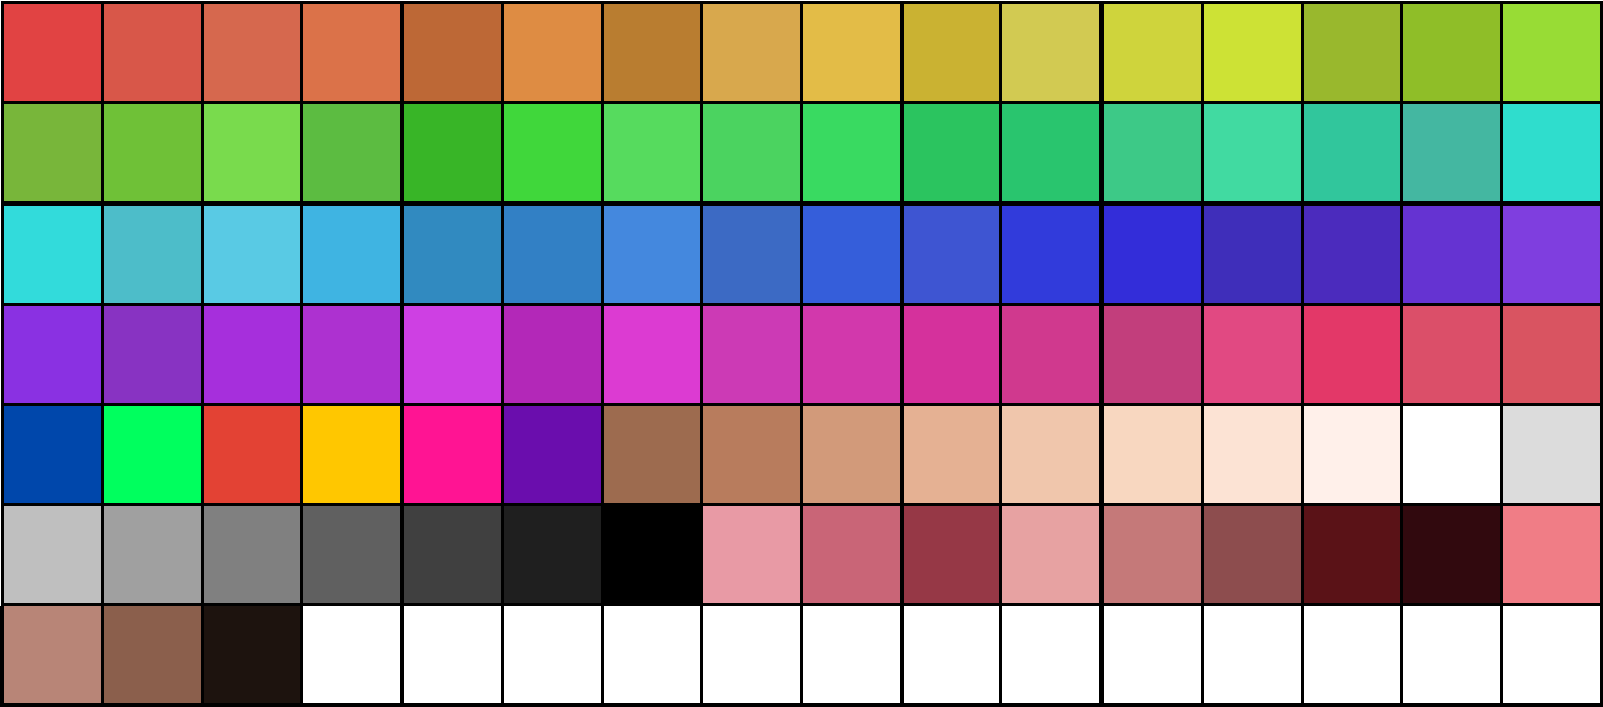
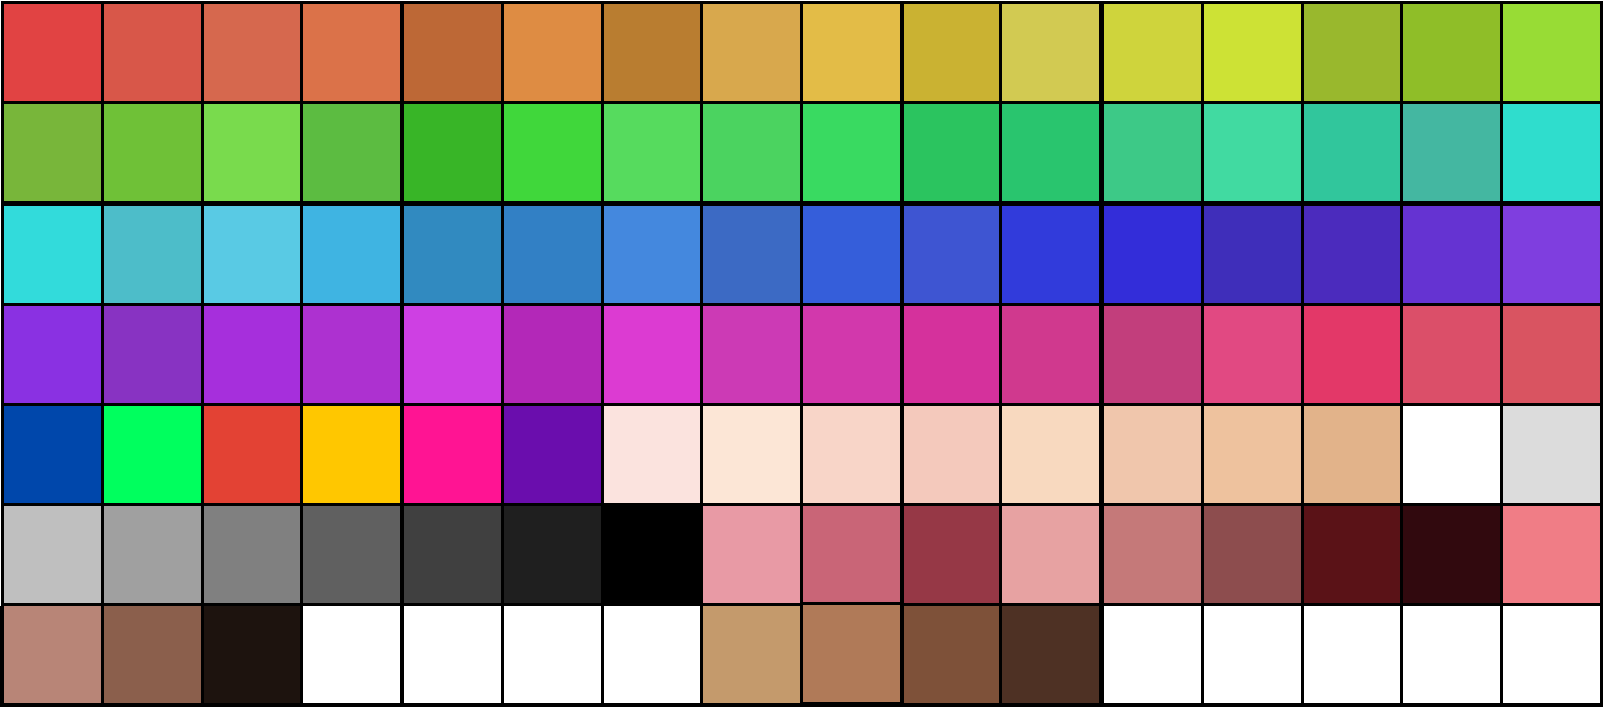
Character materials as built: palette v2, zones 1-17, Toon BSDF mapping
- art-direction: palette is 112 slots / 103 used with real index ranges
  (flesh 71-78 light anime tones, 104-107 darker; 79-87 greys; 88-96 mouth
  interior; 97-99 areola; 100-103 earmarked for cheek blush); Blush Strength
  scales zone 1 only; soft zones; face zones 1-17 (EyeBack, HairSkullCap
  appended, EyeShadow 15 -> 17); skull cap is a face zone, not a hair slot;
  body zones numbered, Explicit is a soft zone set on the Spicy MI only
- palette.png refreshed from the v2 export
- TB-materials: Toon BSDF backend as built (emission via EmissiveColor, no
  Unlit+Add), Toon Profile per master, channel -> pin table
- "98-entry" -> "112-slot" in README, CB-weather-environment, TB-ui-style-guide
- CB-delivery-girl: Nessa's full name, Nessa Virelli
- M2/M3: ARKit 52 authoring on FemaleBase moved to M3 (2026-11-19)

Changed region(s): [[0.4367, 0.8402, 0.6862, 0.9958], [0.3743, 0.5601, 0.6238, 0.7157], [0.7486, 0.5601, 0.8734, 0.7157]]

diff --git a/gdd/art-direction.md b/gdd/art-direction.md
@@ -65,18 +65,22 @@ The passes above define the **look**. As of **UE 5.8**, the **implementation** m
 
 ## Colour Palette
 
-All colour in the game is drawn from a **98-entry palette** stored as a 16×7 grid (with unused slots in the final row). No material uses colour values outside the palette.
+All colour in the game is drawn from the palette, stored as a 16×7 grid of **112 slots, 103 of them in use**. Indices run 1–112, left to right and top to bottom. No material uses colour values outside the palette. The master file is `VisualArt/photoshop/Pallette.psd` in Perforce, one named shape layer per entry. The PNG used by Blender and UE is exported from it.
 
 ![MGA Colour Palette](palette.png)
 
-| Category | Count | Purpose |
-|----------|-------|---------|
-| Base chromatic | 64 | Full hue spectrum — clothing, environment, props, effects, secondary colours (rows 1–4) |
-| Signature colours | 6 | Reserved identity colours for key characters (see story spoiler below) |
-| Flesh tones | 8 | Skin across the full character roster |
-| Greyscale | 8 | Shadows, metals, neutral elements, UI |
-| Blush tones | 12 | Anime blush, flush, lips, mouth interior, and emotional colour states |
-| **Total** | **98** | |
+| Indices | Category | Count | Purpose |
+|---------|----------|-------|---------|
+| 1–64 | Base chromatic | 64 | Full hue spectrum: clothing, environment, props, effects, secondary colours (rows 1–4) |
+| 65–70 | Signature colours | 6 | Reserved identity colours for key characters (see story spoiler below) |
+| 71–78 | Flesh tones: light | 8 | The light range where anime skin sits, with pink, peach and golden undertones. Most of the cast is coloured from here |
+| 79–87 | Greyscale | 9 | White to black: shadows, metals, neutral elements, UI |
+| 88–96 | Mouth interior | 9 | Tongue, gums, mouth cavity and inner lip, three depths each |
+| 97–99 | Areola | 3 | Light, mid and deep |
+| 104–107 | Flesh tones: darker | 4 | Olive tan, warm bronze, deep and deepest brown |
+| 100–103, 108–112 | Free | 9 | Unassigned. 100–103 are earmarked for a dedicated cheek-blush set |
+
+*Palette v2, 2026-11-20 (Peter).* The original flesh row was a single peach hue (about 22°) running from medium brown to three near-whites, with no pink undertone. The two entries meant to be pink had come out peach. The rebalance kept the light anime range in 71–78 and moved the darker tones to 104–107, rather than spread a few light entries thinly across the full range. Index lookups are clamped to 1–112 in `MF_SelectColorFromPalette`.
 
 <details>
 <summary>⚠ Story Spoiler — Signature Colours</summary>
@@ -89,7 +93,7 @@ The 6 signature colours are reserved for the five magical girls and Tierney. Onl
 
 **Palette discipline:** The restricted palette enforces visual consistency across the game. Characters, environments, and UI all speak the same colour language. New assets that require a new colour require a palette discussion — the palette is not expanded casually.
 
-**Blush tones** are designed to blend with flesh tones through the material B channel (see below), creating the anime blush effect as a material parameter rather than a separate render pass.
+**Blush** blends with flesh tones through the material B channel (see below), creating the anime blush effect as a material parameter rather than a separate render pass. There is no dedicated cheek-blush set yet. Until 100–103 are filled, blush uses the light mouth-interior entries (88 *Tongue – light*, 96 *Inner-lip pink*).
 
 **Signature colours** correspond to the key characters and factions whose colours appear repeatedly across costume, UI, and environmental storytelling.
 
@@ -105,10 +109,14 @@ Each material instance exposes two arrays of palette index slots:
 
 | Parameter | Count | Maps to |
 |-----------|-------|---------|
-| Color 1 indexes | 30 | Palette entries (1–98) |
-| Color 2 indexes | 30 | Palette entries (1–98) |
+| Color 1 indexes | up to 30 | Palette entries (1–112) |
+| Color 2 indexes | up to 30 | Palette entries (1–112) |
 
-The 30 Color 1 slots and 30 Color 2 slots define the colour vocabulary available to that material instance. Which slot applies to any given pixel is determined by the primary texture.
+The 30 Color 1 slots and 30 Color 2 slots define the colour vocabulary available to that material instance. Which slot applies to any given pixel is determined by the primary texture. `M_Master_Character` currently has **17** cases wired (`Color 1 Index N` / `Color 2 Index N`, the face's zone count). A new zone needs a new Switch case and its two parameters, as well as the texture change.
+
+**Blush Strength** scales the B mix on **zone 1 (Base) only**. Every other zone gets its full authored B, so turning the skin blush down does not also fade nail free edges or soft-zone feathering. *(2026-11-20.)*
+
+**Soft zones.** A zone is normally hard: a texel belongs to it when the layer's alpha is ≥ 0.5, so a feathered edge is cut off. A *soft* zone instead takes every texel the layer touches (alpha ≥ 0.02) and writes the layer's alpha into B. The feathered edge then blends Colour 1 → Colour 2 inside the zone. Set the zone's Colour 1 to the surrounding colour (skin) so that the zone boundary itself is invisible. Used for the Spicy Explicit zone, where the nipple feathering was being lost. *(2026-11-20, Peter.)*
 
 ### Primary Texture — RGBA
 
@@ -117,7 +125,9 @@ The 30 Color 1 slots and 30 Color 2 slots define the colour vocabulary available
 | **R** | Selects which Color 1 slot (1–N) applies to this pixel region |
 | **G** | Selects which Color 2 slot (1–N) applies to this pixel region |
 | **B** | Mix ratio — lerp between the selected Color 1 and Color 2 |
-| **A** | Alpha |
+| **A** | Alpha — **on `M_Master_Character`: signed soft shade** (see below) |
+
+**Soft shade on character skin (Primary.A).** *Decided by Peter 2026-11-20.* Painted shadows and highlights are soft (feathered), and R/G zones cannot carry softness, so they ride Primary.A on the opaque character master: **0.5 = neutral**, values below lerp toward the instance's shadow colour by `(0.5 − A) × 2`, values above toward its highlight colour by `(A − 0.5) × 2`. It is kept apart from B so blush and shadow can overlap (they do, under the eyes). An instance switch ignores A entirely, so the painted shading can be turned off and the cel shader's own lighting decide where shadows fall.
 
 The R and G channels divide the mesh surface into up to N independently addressable colour zones each, where **N is the master's `MaxIndex`** parameter (default 30, set per-master to match the texture's authored zone count). Selector math is `Round(channel × MaxIndex)` clamped to `[1, MaxIndex]`, so R and G must be authored in `1/N` steps — e.g. R ∈ {1/2, 2/2} for a 2-zone master, R ∈ {1/30, …, 30/30} for a 30-zone master. The B channel blends between the two selected palette entries, allowing two-tone materials: a fabric with warp and weft colours, skin with a blush layer, hair with a highlight band. Changing the look of any zone is a material instance parameter edit, not a texture repaint.
 
@@ -135,6 +145,8 @@ A second texture carries surface property data in packed channels (acronym from 
 | **A** | **E**mission boost |
 
 This texture is authored once per mesh and does not change with colour variations. Subsurface scattering on the R channel is the primary driver of skin warmth and the soft look of flesh in lit areas.
+
+**On the cel masters, R and G have no direct input.** The Substrate Toon BSDF has no subsurface or AO pin. Skin warmth comes instead from the warm diffuse ramp in the `TP_Character` Toon Profile and the instance's Shadow Color. AO goes to the material output's Ambient Occlusion pin if one is wired; the FemaleBase AO plane is flat 1.0 until a bake exists. Roughness and Emission (B, A) feed the BSDF directly. See [TB-materials](../technical-briefs/TB-materials.md).
 
 ### MOHW Texture — Extended Surface Properties
 
@@ -162,6 +174,8 @@ A fourth texture is applied on the UV1 channel (beta UV), independent of the pri
 
 Because beta UV is independent, definition lines can be positioned and scaled separately from the diffuse mapping. This texture does not interact with the palette system — it carries drawn line data directly.
 
+**Interim (FemaleBase, 2026-11-20):** the body's lines are painted on UV0 and the mesh's second UV map (`Channel0`) is empty (all zeros). Until the lines are reworked, the export **copies UV0 into UV1**, so the Definition texture shares the Primary layout and the master's UV1 sampling stays correct.
+
 ### Character Zone Allocation
 
 Characters are split into **two skeletal meshes — head and body** — on the one MetaHuman skeleton, the head following the body via Leader Pose. Each mesh has its own material and its own texture set, and so its own `MaxIndex` budget of up to 30 zones. The split keeps facial features (lips, eyes, brows) from competing with the body for zones.
@@ -172,18 +186,32 @@ A zone is one R value, which selects one Color 1 slot, and its paired G value, w
 
 | Zone | Use | Color 1 / Color 2 / B |
 |------|-----|-----------------------|
-| Lips ×2 | Lips | Allocated; detail pending |
-| … | Skin, eyes, brows, etc. | Allocation in progress |
+| Base | Skin | C1 = skin, C2 = blush, B = blush (BlushCheek + BlushCorner) |
+| Tongue · FrontTeeth · InnerTeeth · MouthBox | Mouth interior | One zone each |
+| UpperLip · LowerLip | Lips | One zone each |
+| EyeCrease · MouthLine | Drawn facial features (hard-edged, so zones, not Definition) | One zone each |
+| EyebrowOutline · EyeBrowColor | Brows | One zone each |
+| LowerLash · TopLashUpper · TopLashLower | Lashes | One zone each |
+| EyeBack | Eye whites | One zone |
+| HairSkullCap | Painted scalp under the hair | One zone; set to the hair colour |
+| EyeShadow | The translucent eye-shadow slot's faces | A = 0.5 as opacity |
+
+**Zone numbers (FemaleBase):** 1 Base, 2 Tongue, 3 FrontTeeth, 4 InnerTeeth, 5 MouthBox, 6 LowerLip, 7 UpperLip, 8 EyeCrease, 9 EyebrowOutline, 10 EyeBrowColor, 11 MouthLine, 12 LowerLash, 13 TopLashUpper, 14 TopLashLower, 15 EyeBack, 16 HairSkullCap, 17 EyeShadow. New zones are **appended**, so existing numbers, and every instance's settings for them, stay put. EyeBack and HairSkullCap were added 2026-11-20, which moved EyeShadow from 15 to 17. Before that, the eye whites had been painted with EyeBrowColor.
+
+Soft shading on Primary.A: EyeCreaseShadow, UnderEyeShadow (shadow); NoseShine (highlight). **NoseTip is a line → Definition**, authored darker/heavier than the body lines (it is the face's most evident interior line); it is not the nose highlight. **The skull cap is a face zone, not a hair-material slot.** That supersedes the earlier plan for the cap to sit on `M_Master_Hair`. The hair strands themselves keep their own slot. The eye-shadow slot is the translucent pair. *(FemaleBase, 2026-11-20.)*
 
 **Body mesh**
 
 | Zone | Use | Color 1 / Color 2 / B |
 |------|-----|-----------------------|
-| Fingernails | All ten fingernails | C1 = nail bed, C2 = free-edge white, B = 0 over the bed ramping to 1 across the free edge |
-| Toenails | All ten toenails | As fingernails |
-| … | Skin, etc. | Allocation in progress |
+| Base | Skin | C1 = skin, C2 = blush, B = blush (BackBlush) |
+| FingerNailBed · FingerNailLunula | All ten fingernails | One zone each; B free for the free edge |
+| ToeNailBed · ToeNailLunula | All ten toenails | As fingernails |
+| Explicit | ExplicitNipples + ExplicitVagina | **Spicy Primary only**; in Core those texels fall through to Base. A **soft zone**: C1 = the skin index, C2 = areola (97–99), B = the painted feathering. Set on the Spicy instance only |
 
-**Nails.** There is one zone per nail *group*, not per nail. A bare nail uses the bed / free-edge pair above. A painted nail sets C1 and C2 to the same polish index, so the B blend does nothing. A French manicure keeps C2 at free-edge white. The tip shape is authored once, in B. Per-nail colour is out of scope. If it is ever needed, the nails move to their own material slot with their own zone budget, so the nail faces stay in their own UV island to keep that split possible.
+Zone numbers: 1 Base, 2 ToeNailBed, 3 ToeNailLunula, 4 FingerNailBed, 5 FingerNailLunula, 6 Explicit. 5 zones in Core, 6 in Spicy. Soft shading on Primary.A: the ten `*Shadow` layers (shadow) and UpperBodyHighlights + KneeFrontHighlight (highlight). The `*Line` layers go to the **Definition** texture. *(FemaleBase, 2026-11-20.)*
+
+**Nails.** There is one zone per nail *group*, not per nail. *Revised 2026-11-20 (Peter):* bed and lunula are separate zones, which leaves B free to ramp to the free edge. A bare nail uses the bed / free-edge pair. A painted nail sets C1 and C2 to the same polish index, so the B blend does nothing. A French manicure keeps C2 at free-edge white. The tip shape is authored once, in B. Per-nail colour is out of scope. If it is ever needed, the nails move to their own material slot with their own zone budget, so the nail faces stay in their own UV island to keep that split possible.
 
 **`MaxIndex`.** Once a mesh's zone count is final, set its master's `MaxIndex` to that count, and author R and G in exact `1/N` steps for that N.
 

diff --git a/technical-briefs/TB-materials.md b/technical-briefs/TB-materials.md
@@ -2,7 +2,7 @@
 
 ## Overview
 
-This brief locks down the master material set, the features each master exposes, and the naming pattern for material instances built on them. It is the implementation map for the system described in [Art Direction](../gdd/art-direction.md) — the cel shader, the 98-entry palette, the double-index Color 1 / Color 2 model, and the four-texture (Primary / SARE / MOHW / Definition) stack.
+This brief locks down the master material set, the features each master exposes, and the naming pattern for material instances built on them. It is the implementation map for the system described in [Art Direction](../gdd/art-direction.md) — the cel shader, the 112-slot palette, the double-index Color 1 / Color 2 model, and the four-texture (Primary / SARE / MOHW / Definition) stack.
 
 Once this brief is followed for every authored asset, recolouring, costume variants, faction palettes, weather states, and DLC overrides are all material-instance edits. Masters are added only when a new shading model or pipeline feature is required.
 
@@ -14,7 +14,7 @@ All masters live under `Content/MGA/Materials/Master/`. All instances live next 
 
 | Master | Cel | Outline | Palette | Textures | Special features | Used for |
 |--------|:---:|:---:|:---:|:---:|---|---|
-| `M_Master_Character` | ✓ | ✓ | ✓ | Pri+SARE+MOHW+Def | Subsurface scattering on SARE.R; blush via Primary B-mix; preview-only debug colour switch | Female body skin, NPC skin |
+| `M_Master_Character` | ✓ | ✓ | ✓ | Pri+SARE+MOHW+Def | Subsurface scattering on SARE.R; blush via Primary B-mix; soft shadow/highlight via signed Primary.A (shadow + highlight colours are instance parameters, with a switch to ignore A so UE lighting alone decides); preview-only debug colour switch | Female body skin, NPC skin |
 | `M_Master_CharacterTranslucent` | ✓ | — | ✓ | Pri (shared with the opaque slot) | Translucent counterpart of `M_Master_Character`: same front-end, Opacity = Primary.A; no inverse hull (the host mesh already draws the silhouette) | Partial-alpha regions on character meshes, e.g. the eye shadow over the eye |
 | `M_Master_Hair` | ✓ | ✓ | ✓ | Pri+SARE+MOHW+Def | Anisotropic highlight band driven by MOHW.B (highlight intensity); two-sided; dithered alpha for hair-card transitions | Front and back hair |
 | `M_Master_Eye` | ✓ | ✓ | ✓ | Pri+SARE | Iris emissive boost; no MOHW or Definition — eye reads at small screen size | Eyeballs and iris discs |
@@ -28,7 +28,7 @@ All masters live under `Content/MGA/Materials/Master/`. All instances live next 
 
 ### Opaque and translucent pairs
 
-Blend mode is fixed per master, so translucency is a master-level feature (see [Adding a New Master](#adding-a-new-master)). A mesh that is mostly opaque but has a partially transparent region does **not** switch to a translucent master: the region goes on its own material slot. The opaque slot uses the opaque master and ignores Primary.A (authored 1.0); the translucent slot uses the `…Translucent` counterpart and reads Primary.A from the same texture. Only the faces that need it pay the translucent-pass costs (sorting, no depth write, reduced AO / SSR / contact shadows).
+Blend mode is fixed per master, so translucency is a master-level feature (see [Adding a New Master](#adding-a-new-master)). A mesh that is mostly opaque but has a partially transparent region does **not** switch to a translucent master: the region goes on its own material slot. The opaque slot uses the opaque master and ignores Primary.A (authored 1.0) — **except `M_Master_Character`, which reads Primary.A as the signed soft shade** (see [Art Direction](../gdd/art-direction.md#primary-texture--rgba)); the translucent slot's faces sit on their own UV island, so the two meanings never share a texel. The translucent slot uses the `…Translucent` counterpart and reads Primary.A from the same texture. Only the faces that need it pay the translucent-pass costs (sorting, no depth write, reduced AO / SSR / contact shadows).
 
 Current pair: `M_Master_Character` + `M_Master_CharacterTranslucent` (the face eye-shadow slot). **To confirm at 5.8 adoption:** whether the Substrate Toon BSDF is supported in a Translucent material; if not, the translucent counterpart falls back to an unlit or standard Substrate BSDF.
 
@@ -40,24 +40,44 @@ Vertical kerbs and the median curb-face still want cel banding — those use `MI
 
 ### Ground palette discipline
 
-`M_Master_Ground` instances may draw from the **full 98-entry palette**, not a constrained environment subset. The discipline is editorial — environment artists should stay within the natural greys/browns/asphalt range — but the master does not enforce a subset.
+`M_Master_Ground` instances may draw from the **full 112-slot palette**, not a constrained environment subset. The discipline is editorial — environment artists should stay within the natural greys/browns/asphalt range — but the master does not enforce a subset.
 
 **Why the master allows the full palette:** debug visualisation. Bright unnatural colours on otherwise-realistic ground meshes are a useful tool for marking a mesh's bounds during development (the river dams currently render bright red for exactly this purpose). Locking the master to a subset would force a per-asset master swap to enable debug colours, which defeats the purpose.
 
 ---
 
-## Shading Backend — UE 5.8 Toon BSDF (planned)
+## Shading Backend — UE 5.8 Toon BSDF
 
 Each cel master splits into a **front-end** (base-colour selection) and a **back-end** (shading). As of **UE 5.8** the back-end is native Substrate nodes, replacing the hand-built cel network described in [Art Direction](../gdd/art-direction.md#cel-shader--2-tone-banded-lighting).
 
-- **Front-end (unchanged):** `MF_UVsToParameters` + `MF_SelectColorFromPalette` + the 98-entry palette resolve the Primary zone selectors into base colour and unpack the SARE / MOHW / Definition params.
+- **Front-end (unchanged):** `MF_UVsToParameters` + `MF_SelectColorFromPalette` + the 112-slot palette resolve the Primary zone selectors into base colour and unpack the SARE / MOHW / Definition params.
 - **Back-end:** the **Substrate Toon BSDF** node, with cel banding (and likely specular + rim) configured by a bound **Toon Profile asset**. Replaces the separate diffuse-band / specular / rim passes.
-- **Emission boost (SARE.A):** a **Substrate Unlit BSDF** node.
-- **Output:** Toon BSDF **+** Unlit BSDF combined via a **Substrate Add** node.
+- **Emission boost (SARE.A):** straight into the Toon BSDF's own **EmissiveColor** pin. The planned Unlit BSDF + Substrate Add is not needed. *(Built 2026-11-20.)*
+- **Output:** the Toon BSDF → the material output's **Front Material**.
 - **Outlines:** inverse-hull, unchanged — a geometry pass, not part of the BSDF graph.
 - **Scope:** the **cel** masters in the table above. The **non-cel** masters (`M_Master_Ground`, `M_Master_Water`, `M_Master_Glass`) keep their existing Substrate BSDFs and do **not** adopt the Toon BSDF.
 
-**New asset type — Toon Profile** (proposed prefix `TP_`, e.g. `TP_Character`, `TP_Cloth`): each cel master/instance family binds one; it carries the cel ramp / banding (and possibly specular + rim) settings. The channel→BSDF-input mapping and whether the profile fully subsumes specular + rim are to be confirmed during 5.8 adoption. Until then the [Art Direction](../gdd/art-direction.md) pass spec remains the description of the target *look*.
+**New asset type — Toon Profile** (prefix `TP_`, e.g. `TP_Character`, `TP_Cloth`): each cel master binds one, in the BSDF node's Details. It is set **per master material**; instances cannot swap it. It carries a colour **Diffuse Ramp**, a **Specular Ramp**, shadow extinction and hatching, and GI scales. Because the diffuse ramp is a *colour* curve, it can tint the shadow side warm, which is how skin warmth is recovered without an SSS pin.
+
+### Channel → Toon BSDF mapping (`M_Master_Character`, built 2026-11-20)
+
+The Toon BSDF pins are BaseColor, Metallic, Specular, Roughness, Normal, EmissiveColor, PatternUVs, Anisotropy and Tangent. There is **no subsurface and no AO pin**.
+
+| Channel | Destination |
+|---------|-------------|
+| Primary R/G → palette, B → mix | Colour 1 / Colour 2 per zone (17-case Switch → `MF_ColorSelector`), blended by B × Blush Strength (zone 1 only) |
+| Primary.A (soft shade) | Lerp toward `Shadow Color` below 0.5, toward `Highlight Color` above 0.5 |
+| Definition.R (lines, UV1) | Lerp toward `Line Color`, applied last, after the shade → **BaseColor** |
+| SARE.R subsurface | **No pin.** Warmth comes from the `TP_Character` diffuse ramp and `Shadow Color` |
+| SARE.G AO | Material output **Ambient Occlusion** pin if wired (not through Front Material); flat 1.0 until a bake exists |
+| SARE.B roughness | **Roughness** |
+| SARE.A emission boost | shaded colour (before lines) × boost × `Emissive Strength` → **EmissiveColor** |
+| MOHW.R metallic | **Metallic** |
+| MOHW.G outline weight | The inverse-hull outline pass, not the BSDF |
+| MOHW.B highlight band | **Specular** |
+| MOHW.A wetness | Not wired yet |
+
+The look target in [Art Direction](../gdd/art-direction.md) still applies. The specular/rim passes it describes are partly covered by the profile's specular ramp; rim is not implemented yet.
 
 ---
 
@@ -101,7 +121,7 @@ The full per-texture channel layout (canonical reference is [Art Direction](../g
 
 | Texture | UV | R | G | B | A |
 |---|---|---|---|---|---|
-| Primary | 0 | Color 1 zone selector (`Round(R × MaxIndex)`, clamped 1..MaxIndex) | Color 2 zone selector (same math on G) | Mix factor | Alpha |
+| Primary | 0 | Color 1 zone selector (`Round(R × MaxIndex)`, clamped 1..MaxIndex) | Color 2 zone selector (same math on G) | Mix factor (blush on skin) | Alpha — **except `M_Master_Character`: signed soft shade** (0.5 neutral, below = shadow, above = highlight) |
 | SARE | 0 | Subsurface scattering | Ambient occlusion | Roughness | Emission boost |
 | MOHW | 0 | Metallic | Outline weight modulator | Highlight band intensity | Wetness mask |
 | Definition | 1 | Inline line data (channel use TBD) | — | — | — |

diff --git a/creative-briefs/CB-weather-environment.md b/creative-briefs/CB-weather-environment.md
@@ -10,7 +10,7 @@ All environmental data is deterministic and driven by the almanac library. Sun p
 
 The almanac currently provides sun/moon positions, sunrise/sunset with six twilight phases, weather conditions (Sunny through Snow), per-hour temperature, moon illumination fractions, and seasonal determination. Three extensions are needed: wind speed/direction, thunderstorm as a distinct condition, and fog/mist as a distinct condition. These are library-level changes, not creative brief scope, but the brief references them as data dependencies.
 
-Weather rendering must respect the anime art style established in [Art Direction](../gdd/art-direction.md). The cel shader's 2-tone diffuse banding (plus separate stepped specular and rim passes), the 98-entry colour palette, and the geometry-based outline system all constrain how weather effects are rendered. Post-processing is avoided where a shader or particle solution exists. Rain is particles, not a full-screen overlay. Fog is volumetric, not a depth-based post-process blur.
+Weather rendering must respect the anime art style established in [Art Direction](../gdd/art-direction.md). The cel shader's 2-tone diffuse banding (plus separate stepped specular and rim passes), the 112-slot colour palette, and the geometry-based outline system all constrain how weather effects are rendered. Post-processing is avoided where a shader or particle solution exists. Rain is particles, not a full-screen overlay. Fog is volumetric, not a depth-based post-process blur.
 
 **Related documents:**
 
@@ -125,7 +125,7 @@ The half-empty city quality noted in [Audio Direction](../gdd/audio-direction.md
 
 - Lore-established: frequent polar auroras from dual moons and a strong magnetosphere
 - Visible on clear nights; intensity increases in winter months
-- Colour palette constrained to the 98-entry project palette — greens, teals, and purples from the chromatic range
+- Colour palette constrained to the 112-slot project palette — greens, teals, and purples from the chromatic range
 - Auroras are a skybox-layer effect — they appear above the cloud layer and behind the moons
 - Not gameplay-affecting; purely atmospheric and beautiful
 - Frequency: several nights per T3PC month on clear nights; rare in summer, common in winter

diff --git a/technical-briefs/TB-ui-style-guide.md b/technical-briefs/TB-ui-style-guide.md
@@ -28,7 +28,7 @@ only the token→palette binding the engine doesn't provide.
 
 ## Colour — palette-bound (LOCKED CONSTRAINT)
 
-**Every UI colour is a named token that resolves to a specific entry in the fixed 98-entry palette**
+**Every UI colour is a named token that resolves to a specific entry in the fixed 112-slot palette**
 ([Art Direction → Colour Palette](../gdd/art-direction.md), `palette.png`). **No UI colour is ever a
 raw hex value or a colour outside the palette** — this is the existing palette discipline ("Characters,
 environments, and UI all speak the same colour language"; a new colour requires a palette discussion,
@@ -157,7 +157,7 @@ colour hand-patch (white `itemStyle.textColor`) is replaced by the styled ComboB
 
 ## Related
 
-- [Art Direction](../gdd/art-direction.md) — **the fixed 98-entry palette (colour source)**, cel shader
+- [Art Direction](../gdd/art-direction.md) — **the fixed 112-slot palette (colour source)**, cel shader
 - [TB — Settings Menu](TB-settings-menu.md) · [TB — Language Settings](TB-language-settings.md) — first consumers
 - [Boot Manager](../gdd/boot-manager.md) — reuse-UE rule; [TB — Boot Loader](TB-boot-loader.md) — CommonUI stack
 - Content-tier / Streamer-Mode standard — Base = stream-safe (visual too)

diff --git a/milestones/M2-delivery-girl-first-run.md b/milestones/M2-delivery-girl-first-run.md
@@ -141,9 +141,13 @@ X in this line of work, and it is a **stretch goal** here, otherwise M3. You can
 
 - **The shape keys are the risk in that surgery.** Blender shape keys are stored per vertex index, so
   removing and re-patching the groin region can corrupt or misalign key data across the whole mesh.
-  `MainBody` carries 56 keys, 52 of which are the Faceit ARKit set that is now in M2 scope. The
+  `MainBody` carries 56 keys, 52 of which are the Faceit ARKit set. The
   facial keys touch different vertices but share the same key stack, so **verify the ARKit set still
   deforms correctly after the edit**; the fallback is re-running Faceit.
+  **Superseded 2026-11-19 (Peter):** the shipping body is now FemaleBase (Lesson57, ARP rig), which has
+  never carried the ARKit set. **Authoring the ARKit 52 set moves to M3** with the facial animation
+  pipeline ([M3-candidates](M3-candidates.md)). M2's body ships with `Bust` only; the streamer-safe
+  removal is folded into the Core body at export.
 
 - **Zero the morphs before export, and confirm the exporter does not fold current shape-key values
   into the basis.** All three currently sit at value ~1.0 in the Blender file, and `BreastSize` at

diff --git a/README.md b/README.md
@@ -59,7 +59,7 @@ The GDD is the central design reference. Start with **[gdd.md](gdd/gdd.md)** for
 | [Story Overview](gdd/story-overview.md) | Spoiler-light premise, tone, and setting |
 | [Register and Engagement](gdd/register-and-engagement.md) | Writing register, en-CA as source locale, the long development cycle, distributed-payoff rule, publishing and monetisation during development |
 | [Title and Branding](gdd/title-and-branding.md) | Title rationale, fraction logo, title screen art, chapter operator system |
-| [Art Direction](gdd/art-direction.md) | Visual style, cel shader, colour palette (98 entries), material system |
+| [Art Direction](gdd/art-direction.md) | Visual style, cel shader, colour palette (112 slots), material system |
 | [Character Pipeline](gdd/character-pipeline.md) | Body mesh architecture, hair system, clothing pipeline |
 | [Audio Direction](gdd/audio-direction.md) | Music and sound design intent |
 | [Boot Manager](gdd/boot-manager.md) | ABM/MBM phased lifecycle, pak search order, dependency resolution |

diff --git a/milestones/M3-candidates.md b/milestones/M3-candidates.md
@@ -23,6 +23,12 @@ standard approach for authored dialogue.
 
 **What needs proving, in order:**
 
+0. **Author the ARKit 52 set on FemaleBase first** (moved here from M2 by Peter, 2026-11-19). The
+   shipping body (FemaleBase, ARP rig) has **never** carried the Faceit set described in (1); that was
+   the old `newbase53` MainBody. Run Faceit on `Face` (save a new Lesson first); the teeth and tongue are
+   loose parts **inside** the Face mesh and the rig has **no jaw bone**, so `jawOpen`/`tongueOut` must
+   carry them as blendshapes. The export script's Core/Spicy rules apply unchanged.
+
 1. **Does the solver's output land on a CUSTOM character?** This is the gate, and everything else is
    downstream of it. Epic describes audio-driven animation as delivering *"animation for all MetaHuman
    facial controls"* — and the MetaHuman facial rig is **not** ARKit 52; it is a much larger control

diff --git a/creative-briefs/CB-delivery-girl.md b/creative-briefs/CB-delivery-girl.md
@@ -62,6 +62,10 @@ that. It is recorded here so the option is not lost, not because it is planned.
 
 Nessa is a tertiary student working as a courier to make ends meet.
 
+**Full name: Nessa Virelli** (Peter, 2026-11-20). *Nessa* has a Hebrew origin, read as "trial" or
+"miracle". *Virelli* is an invented surname with an Italian tone, built from *vireo* ("to move
+swiftly"), chosen to sound sleek and high-tech, which suits a courier.
+
 One of her deliveries is a prototype drone. An accident during the run opens the package, and the
 drone **binds to her** — the mode's version of the per-operator calibration the CAMERA system already
 uses, where a unit calibrated to one person will not interface correctly with another. The binding is
